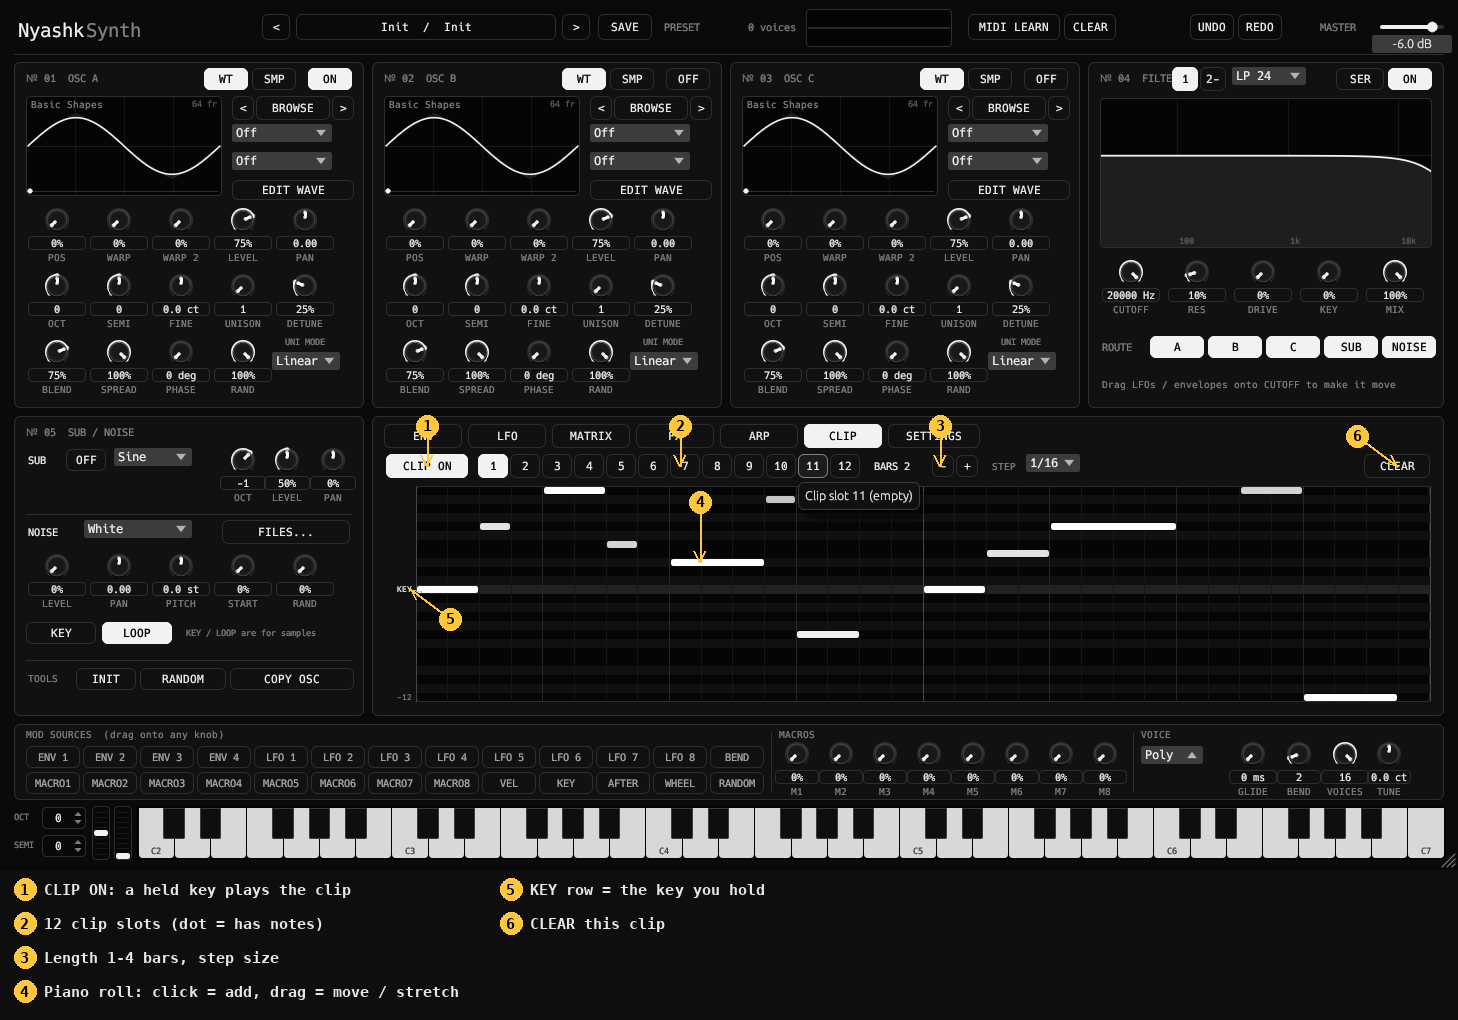
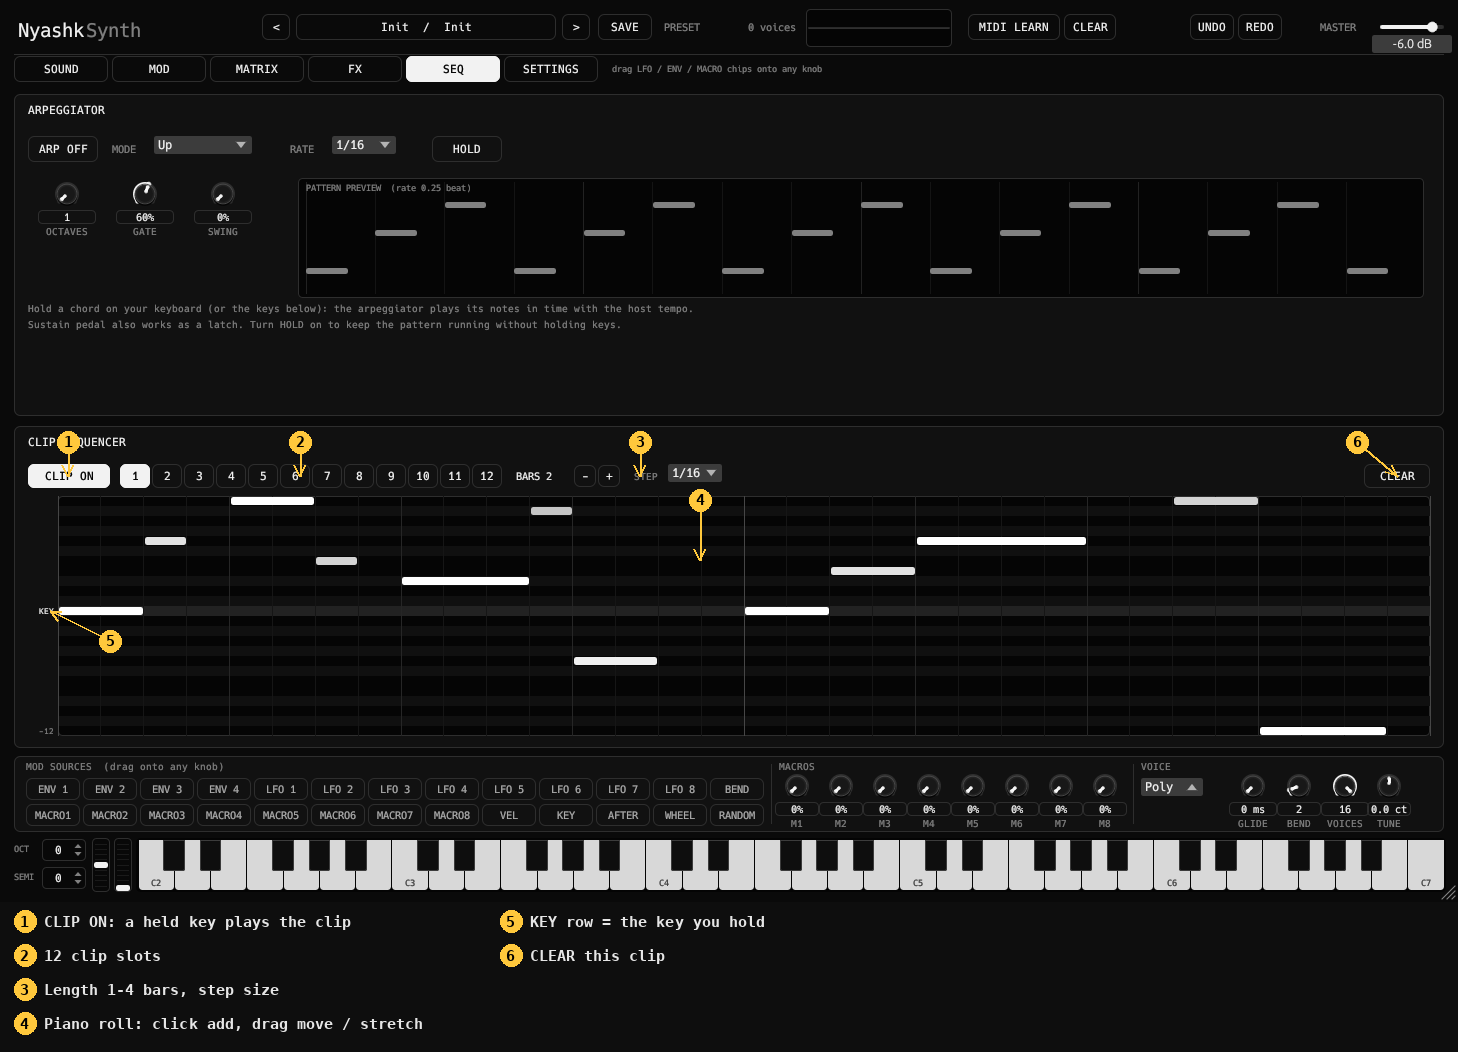
v2.7.0: Serum-style pages (SOUND/MOD/MATRIX/FX/SEQ/SETTINGS), refreshed manual
Claude-Session: https://claude.ai/code/session_01EndxvcXZsUxUuBFyUHCgZr

diff --git a/plugins/nyashksynth/src/editor.rs b/plugins/nyashksynth/src/editor.rs
@@ -23,7 +23,7 @@ use crate::wavetable::{self, Table, NAMES};
 use crate::Meters;
 
 pub const BASE_W: f32 = 1458.0;
-pub const BASE_H: f32 = 870.0;
+pub const BASE_H: f32 = 902.0;
 
 #[derive(PartialEq, Clone, Copy)]
 pub enum Overlay {
@@ -303,7 +303,9 @@ pub fn create(params: Arc<SynthParams>, meters: Arc<Meters>, shared: Arc<Shared>
             learn_begin(p, st);
             egui::CentralPanel::default().frame(egui::Frame::NONE.fill(BG)).show(ctx, |ui| {
                 let full = ui.max_rect();
-                let o = full.min;
+                let o_real = full.min;
+                // everything below the header sits one page bar lower
+                let o = Pos2::new(o_real.x, o_real.y + PAGE_SHIFT);
                 let rect = |x: f32, y: f32, w: f32, h: f32| Rect::from_min_size(Pos2::new(o.x + x, o.y + y), Vec2::new(w, h));
                 let painter = ui.painter().clone();
                 let now = ui.input(|i| i.time);
@@ -339,40 +341,50 @@ pub fn create(params: Arc<SynthParams>, meters: Arc<Meters>, shared: Arc<Shared>
                     set_b(setter, &p.clip_on, true);
                 }
                 autotest(setter, p, &shared, st, &meters, now);
-                header(ui, setter, p, &shared, st, &meters, o, now);
+                header(ui, setter, p, &shared, st, &meters, o_real, now);
+                page_bar(ui, p, st, o_real);
 
-                // ================================================= row 1: oscillators + filter
-                osc_panel(ui, setter, p, &shared, st, rect(14.0, 62.0, 350.0, 346.0), 0);
-                osc_panel(ui, setter, p, &shared, st, rect(372.0, 62.0, 350.0, 346.0), 1);
-                osc_panel(ui, setter, p, &shared, st, rect(730.0, 62.0, 350.0, 346.0), 2);
-                filter_panel(ui, setter, p, st, rect(1088.0, 62.0, 356.0, 346.0));
-
-                // ================================================= row 2: sub/noise + tabs
-                sub_noise_panel(ui, setter, p, &shared, st, rect(14.0, 416.0, 350.0, 300.0), now);
-                let rp = rect(372.0, 416.0, 1072.0, 300.0);
-                painter.rect_filled(rp, CornerRadius::same(6), PANEL);
-                painter.rect_stroke(rp, CornerRadius::same(6), Stroke::new(1.0_f32, LINE), StrokeKind::Inside);
-                for (i, name) in ["ENV", "LFO", "MATRIX", "FX", "ARP", "CLIP", "SETTINGS"].iter().enumerate() {
-                    if pill(ui, Rect::from_min_size(Pos2::new(rp.left() + 12.0 + 84.0 * i as f32, rp.top() + 8.0), Vec2::new(if i == 6 { 92.0 } else { 78.0 }, 24.0)), name, st.tab == i) {
-                        st.tab = i;
-                    }
-                }
-                let arp_on = p.arp_on.value();
-                if p.clip_on.value() && st.tab != 5 {
-                    painter.circle_filled(Pos2::new(rp.left() + 12.0 + 84.0 * 5.0 + 66.0, rp.top() + 14.0), 3.0, WHITE);
-                }
-                if arp_on && st.tab != 4 {
-                    painter.circle_filled(Pos2::new(rp.left() + 12.0 + 84.0 * 4.0 + 66.0, rp.top() + 14.0), 3.0, WHITE);
-                }
-                let content = Rect::from_min_size(Pos2::new(rp.left() + 10.0, rp.top() + 40.0), Vec2::new(rp.width() - 20.0, rp.height() - 46.0));
+                // ================================================= pages
+                let page_panel = |title: &str, r: Rect| -> Rect {
+                    painter.rect_filled(r, CornerRadius::same(6), PANEL);
+                    painter.rect_stroke(r, CornerRadius::same(6), Stroke::new(1.0_f32, LINE), StrokeKind::Inside);
+                    painter.text(Pos2::new(r.left() + 14.0, r.top() + 16.0), Align2::LEFT_CENTER, title, mono(11.0), WHITE);
+                    Rect::from_min_size(Pos2::new(r.left() + 10.0, r.top() + 40.0), Vec2::new(r.width() - 20.0, r.height() - 46.0))
+                };
                 match st.tab {
-                    0 => env_tab(ui, setter, p, st, content, now),
-                    1 => lfo_tab(ui, setter, p, &shared, st, content),
-                    2 => matrix_tab(ui, setter, p, st, content),
-                    3 => fxui::fx_tab(ui, setter, p, st, content),
-                    4 => arp_tab(ui, setter, p, &meters, content),
-                    5 => clip_tab(ui, setter, p, st, content),
-                    _ => settings_tab(ui, setter, p, &meters, st, content),
+                    0 => {
+                        osc_panel(ui, setter, p, &shared, st, rect(14.0, 62.0, 350.0, 346.0), 0);
+                        osc_panel(ui, setter, p, &shared, st, rect(372.0, 62.0, 350.0, 346.0), 1);
+                        osc_panel(ui, setter, p, &shared, st, rect(730.0, 62.0, 350.0, 346.0), 2);
+                        filter_panel(ui, setter, p, st, rect(1088.0, 62.0, 356.0, 346.0));
+                        sub_noise_panel(ui, setter, p, &shared, st, rect(14.0, 416.0, 350.0, 300.0), now);
+                        let c = page_panel("ENVELOPES", rect(372.0, 416.0, 1072.0, 300.0));
+                        env_tab(ui, setter, p, st, c, now);
+                    }
+                    1 => {
+                        let c = page_panel("LFO 1-4", rect(14.0, 62.0, 1430.0, 322.0));
+                        lfo_tab(ui, setter, p, &shared, st, c, 0);
+                        let c = page_panel("LFO 5-8", rect(14.0, 394.0, 1430.0, 322.0));
+                        lfo_tab(ui, setter, p, &shared, st, c, 1);
+                    }
+                    2 => {
+                        let c = page_panel("MODULATION MATRIX  (drag a source chip from the bottom strip onto any knob to add a route)", rect(14.0, 62.0, 1430.0, 654.0));
+                        matrix_tab(ui, setter, p, st, c);
+                    }
+                    3 => {
+                        let c = page_panel("EFFECTS", rect(14.0, 62.0, 1430.0, 654.0));
+                        fxui::fx_tab(ui, setter, p, st, c);
+                    }
+                    4 => {
+                        let c = page_panel("ARPEGGIATOR", rect(14.0, 62.0, 1430.0, 322.0));
+                        arp_tab(ui, setter, p, &meters, c);
+                        let c = page_panel("CLIP SEQUENCER", rect(14.0, 394.0, 1430.0, 322.0));
+                        clip_tab(ui, setter, p, st, c);
+                    }
+                    _ => {
+                        let c = page_panel("SETTINGS", rect(14.0, 62.0, 1430.0, 654.0));
+                        settings_tab(ui, setter, p, &meters, st, c);
+                    }
                 }
 
                 // ================================================= bottom strip: sources, macros, voice
@@ -409,6 +421,25 @@ pub fn create(params: Arc<SynthParams>, meters: Arc<Meters>, shared: Arc<Shared>
             });
         },
     )
+}
+
+const PAGE_SHIFT: f32 = 32.0;
+
+fn page_bar(ui: &mut Ui, p: &SynthParams, st: &mut Gui, o: Pos2) {
+    let painter = ui.painter().clone();
+    let names = ["SOUND", "MOD", "MATRIX", "FX", "SEQ", "SETTINGS"];
+    let tips = ["Oscillators, filter, sub / noise and envelopes", "LFO 1-8", "Modulation matrix (all 16 routes)", "Effects chain, two buses, routing", "Arpeggiator and clip sequencer", "Tuning, MIDI, bindings"];
+    for (i, n) in names.iter().enumerate() {
+        let r = Rect::from_min_size(Pos2::new(o.x + 14.0 + 98.0 * i as f32, o.y + 56.0), Vec2::new(94.0, 26.0));
+        if pill_tip(ui, r, n, st.tab == i, tips[i]) {
+            st.tab = i;
+        }
+        let lit = (i == 4 && (p.arp_on.value() || p.clip_on.value())) || (i == 3 && st.tab != 3 && false);
+        if lit && st.tab != i {
+            painter.circle_filled(Pos2::new(r.right() - 8.0, r.top() + 7.0), 3.0, WHITE);
+        }
+    }
+    painter.text(Pos2::new(o.x + 14.0 + 98.0 * 6.0 + 10.0, o.y + 69.0), Align2::LEFT_CENTER, "drag LFO / ENV / MACRO chips onto any knob", mono(9.0), DIM);
 }
 
 // ===================================================================== header
@@ -1770,7 +1801,7 @@ fn clip_tab(ui: &mut Ui, setter: &ParamSetter, p: &SynthParams, st: &mut Gui, c:
     }
     // ---- piano roll
     let rows = (PITCH_MAX - PITCH_MIN + 1) as usize;
-    let rh = 9.0;
+    let rh = ((c.height() - 36.0) / rows as f32).clamp(8.0, 13.0);
     let gx = c.left() + 34.0;
     let gy = c.top() + 30.0;
     let steps = clips[sel].steps();
@@ -1972,14 +2003,9 @@ fn settings_tab(ui: &mut Ui, setter: &ParamSetter, p: &SynthParams, meters: &Met
 
 // ===================================================================== LFO tab
 
-fn lfo_tab(ui: &mut Ui, setter: &ParamSetter, p: &SynthParams, shared: &Shared, st: &mut Gui, c: Rect) {
+fn lfo_tab(ui: &mut Ui, setter: &ParamSetter, p: &SynthParams, shared: &Shared, st: &mut Gui, c: Rect, page: usize) {
     let w = (c.width() - 30.0) / 4.0;
-    for (k, t) in ["LFO 1-4", "LFO 5-8"].iter().enumerate() {
-        if pill(ui, Rect::from_min_size(Pos2::new(c.right() - 148.0 + 74.0 * k as f32, c.top() - 29.0), Vec2::new(70.0, 20.0)), t, st.lfo_page == k) {
-            st.lfo_page = k;
-        }
-    }
-    for i in st.lfo_page * 4..st.lfo_page * 4 + 4 {
+    for i in page * 4..page * 4 + 4 {
         let l = &p.lfo[i];
         let x = c.left() + (w + 10.0) * (i % 4) as f32;
         let lnow = ui.input(|i| i.time);
@@ -2056,18 +2082,21 @@ fn lfo_tab(ui: &mut Ui, setter: &ParamSetter, p: &SynthParams, shared: &Shared, 
 // ===================================================================== MATRIX tab
 
 fn matrix_tab(ui: &mut Ui, setter: &ParamSetter, p: &SynthParams, st: &mut Gui, c: Rect) {
-    let rh = 27.0;
     let hy = c.top() + 4.0;
-    for (x, t) in [(30.0, "SOURCE"), (176.0, "DESTINATION"), (332.0, "AMOUNT"), (448.0, "CURVE"), (520.0, "UNI"), (556.0, "SCALED BY")] {
-        ui.painter().text(Pos2::new(c.left() + x, hy), Align2::LEFT_CENTER, t, mono(9.5), DIM);
-    }
-    for (i, t) in ["1-8", "9-16"].iter().enumerate() {
-        if pill(ui, Rect::from_min_size(Pos2::new(c.right() - 122.0 + 62.0 * i as f32, c.top() - 29.0), Vec2::new(58.0, 20.0)), t, st.mat_page == i) {
-            st.mat_page = i;
+    let _ = &st;
+    let colw = (c.width() - 24.0) / 2.0;
+    for col in 0..2 {
+        let cl = c.left() + (colw + 24.0) * col as f32;
+        for (x, t) in [(30.0, "SOURCE"), (176.0, "DESTINATION"), (332.0, "AMOUNT"), (448.0, "CURVE"), (520.0, "UNI"), (556.0, "SCALED BY")] {
+            ui.painter().text(Pos2::new(cl + x, hy), Align2::LEFT_CENTER, t, mono(9.5), DIM);
         }
     }
-    for r in 0..8 {
-        let i = st.mat_page * 8 + r;
+    let rh = 40.0;
+    for r16 in 0..16 {
+        let col = r16 / 8;
+        let r = r16 % 8;
+        let c = Rect::from_min_size(Pos2::new(c.left() + (colw + 24.0) * col as f32, c.top()), Vec2::new(colw, c.height()));
+        let i = r16;
         let s = &p.slot[i];
         let y = c.top() + 14.0 + rh * r as f32;
         let active = s.src.value() != ModSrc::None && s.dst.value() != ModDst::None;

diff --git a/plugins/nyashksynth/src/params.rs b/plugins/nyashksynth/src/params.rs
@@ -1515,7 +1515,7 @@ fn order_param(i: i32) -> IntParam {
 impl Default for SynthParams {
     fn default() -> Self {
         Self {
-            editor_state: EguiState::from_size(1458, 870),
+            editor_state: EguiState::from_size(1458, 902),
             preset_name: Arc::new(std::sync::Mutex::new("Init".to_string())),
             noise_sample: Arc::new(std::sync::Mutex::new(String::new())),
             cc_map: Arc::new(std::sync::Mutex::new(String::new())),

diff --git a/docs/MANUAL.md b/docs/MANUAL.md
@@ -2,6 +2,21 @@
 
 Quick visual guide. Every numbered badge in a picture is explained under it.
 
+## 0. Pages
+
+Like Serum, the plugin is split into pages (buttons under the header):
+
+| Page | What is on it |
+|---|---|
+| **SOUND** | 3 oscillators, 2 filters, sub / noise, 4 envelopes |
+| **MOD** | all 8 LFOs at once |
+| **MATRIX** | all 16 modulation routes in two columns |
+| **FX** | effects chain, two buses, routing |
+| **SEQ** | arpeggiator (with pattern editor) and clip sequencer |
+| **SETTINGS** | tuning, MIDI, learned CCs |
+
+The mod-source chips, macros, voice settings, keyboard and wheels stay visible on every page.
+
 ## 1. Overview
 
 ![Overview](img/manual_overview.png)
@@ -10,7 +25,7 @@ Quick visual guide. Every numbered badge in a picture is explained under it.
 2. **Filter**: two filters (tabs **1** and **2**), `SER` toggles series / parallel. 16 types plus **Custom (points)**: drag up to 8 EQ-style points on the graph. `ROUTE` picks which sources feed the selected filter.
 3. **MIDI LEARN**: switch it on, click any knob, then move a knob/fader on your MIDI keyboard. The knob shows `CCn`. Right-click a bound knob to unbind, `CLEAR` removes all bindings. Bindings are saved with the project.
 4. **SUB / NOISE** with INIT, RANDOM and COPY OSC tools.
-5. **Tabs**: ENV (4 envelopes, INV.LEGATO), LFO (8 LFOs on two pages), MATRIX (16 slots), FX, ARP.
+5. **Pages**: SOUND, MOD (8 LFOs), MATRIX (16 slots), FX, SEQ (arp + clips), SETTINGS.
 6. **Mod sources**: drag a chip onto any knob; drag vertically on the knob to set the depth. Right-click the modulation ring to remove it.
 7. **8 macros**: assign them like any other source.
 8. **OCT / SEMI spinners and wheels**: click the arrows, drag, use the mouse wheel; double-click resets. They transpose both MIDI input and the on-screen keys. The pitch wheel springs back, the mod wheel stays where you leave it; both follow your hardware wheels.
@@ -42,6 +57,12 @@ Quick visual guide. Every numbered badge in a picture is explained under it.
 * OCT / SEMI shift incoming notes; notes already held are released correctly when you change the shift.
 * MIDI learn works for every parameter: oscillator, filter, envelope, LFO, FX and macro knobs.
 
+## 3b. Modulation matrix
+
+![Matrix](img/manual_matrix.png)
+
+Each route: **source**, **destination**, **amount** (bipolar), **curve**, **UNI** (unipolar) and an optional **scaled by** source. Routes made by dragging a chip onto a knob appear here automatically.
+
 ## 4b. Sample oscillator
 
 ![Sample oscillator](img/manual_sample.png)
@@ -58,13 +79,13 @@ Each oscillator can be switched between **WT** (wavetable) and **SMP** (sample) 
 
 ![Arp pattern](img/manual_arp.png)
 
-Set **MODE = Pattern** in the ARP tab. 16 steps, each with on / rest, velocity, which held note it plays (1 = lowest, wraps round the chord) and a transposition in semitones. Right-click a step number to end the pattern there. The pattern is saved with presets and projects.
+Set **MODE = Pattern** in the ARPEGGIATOR panel of the SEQ page. 16 steps, each with on / rest, velocity, which held note it plays (1 = lowest, wraps round the chord) and a transposition in semitones. Right-click a step number to end the pattern there. The pattern is saved with presets and projects.
 
 ## 4d. Clip sequencer
 
 ![Clip sequencer](img/manual_clip.png)
 
-Open the **CLIP** tab and switch **CLIP ON**. Hold a key: the selected clip plays and loops, transposed from the key you hold (the **KEY** row of the piano roll is that key). Releasing the key stops it.
+Open the **SEQ** page, go to the CLIP SEQUENCER panel and switch **CLIP ON**. Hold a key: the selected clip plays and loops, transposed from the key you hold (the **KEY** row of the piano roll is that key). Releasing the key stops it.
 
 1. **CLIP ON** replaces the arpeggiator while it is on.
 2. **12 clip slots**; a dot marks slots that contain notes. Clips are saved with the preset.
@@ -100,6 +121,7 @@ UNDO and REDO (header, or Ctrl+Z / Ctrl+Y) step through your parameter changes, 
 | Arp pattern editor, undo / redo | done |
 | Multisample (SFZ) / Granular / Spectral oscillator modes | not yet |
 | Clip sequencer (12 clips, piano roll) | done |
+| Serum-style pages (SOUND / MOD / MATRIX / FX / SEQ / SETTINGS) | done |
 | Tuning (A4, scales), MIDI channel, velocity curve | done |
 | Arp banks (12 slots), oscillator mapping editor | not yet |
 | Convolve, reverb types, preset tags and ratings | not yet |

diff --git a/README.md b/README.md
@@ -32,6 +32,7 @@ A Serum-style wavetable synthesizer in the same black-and-white Nyashk design.
 | **Effects** | Hyper/Dimension, Distortion, Flanger, Phaser, Chorus, Delay, Compressor, Reverb, EQ, Filter, **Bode** frequency shifter, **Utility**: reorderable chain, **two FX buses** with series / parallel / low-high / mid-side routing |
 | **Arpeggiator** | 7 patterns + **16-step Pattern editor**, 18 rates incl. triplets/dotted, gate, swing, octaves, hold |
 | **Sequencing** | **Clip sequencer**: 12 clips with piano roll, transposed from the held key |
+| **Layout** | Serum-style pages: SOUND / MOD / MATRIX / FX / SEQ / SETTINGS |
 | **Workflow** | Undo / redo (Ctrl+Z / Ctrl+Y), SETTINGS tab (A4 / scale tuning, MIDI channel, velocity curve) |
 | **MIDI** | **MIDI learn** on every knob, OCT/SEMI transpose spinners, pitch and mod wheels |
 | **Performance** | Poly / Mono / Legato, glide, sustain pedal, mod wheel, pitch bend, aftertouch, on-screen keyboard, oscilloscope |

diff --git a/RELEASE_NOTES.md b/RELEASE_NOTES.md
@@ -1,3 +1,7 @@
+## NyashkSynth v2.7.0
+
+- **Pages like Serum**: SOUND, MOD, MATRIX, FX, SEQ, SETTINGS instead of one small tab block. All 8 LFOs are visible together, the matrix shows all 16 routes, arp and clip sequencer share the SEQ page. Window is a little taller (1458 x 902).
+
 ## NyashkSynth v2.6.0
 
 - **Clip sequencer**: 12 clips of 1-4 bars with a piano roll; a held key plays the clip transposed from that key.
